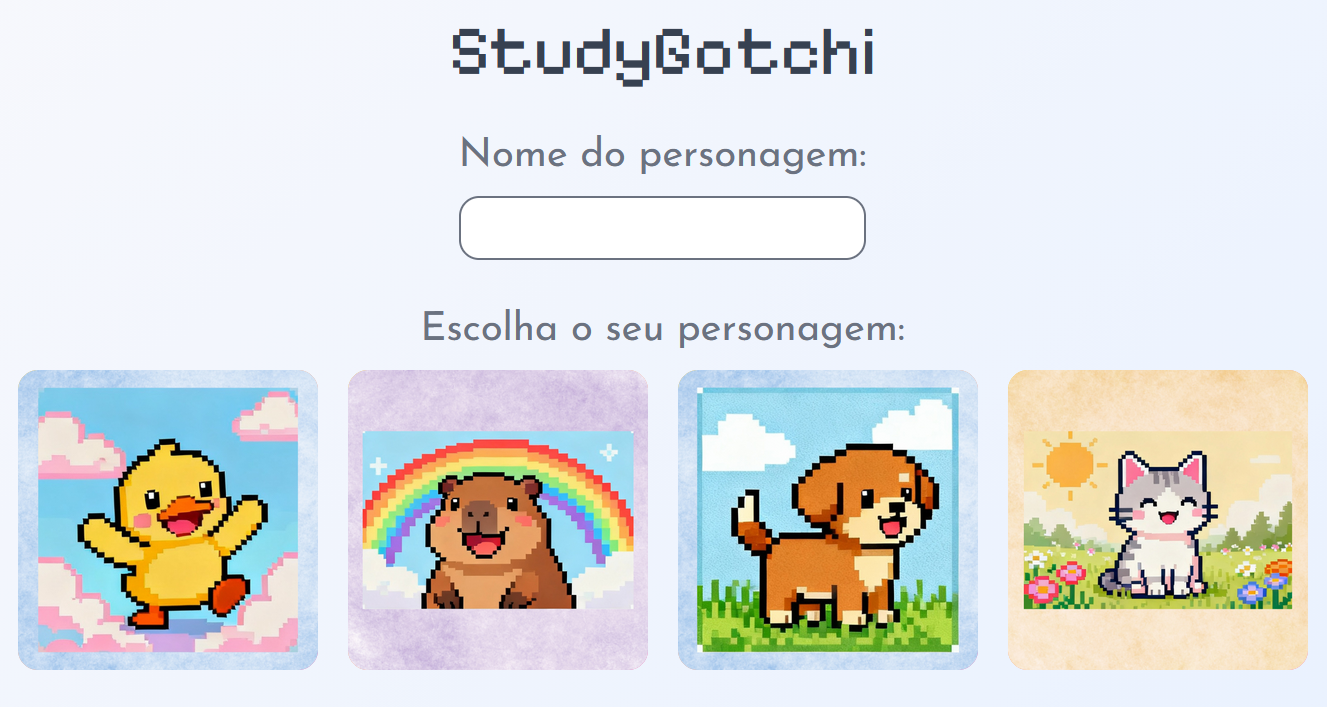
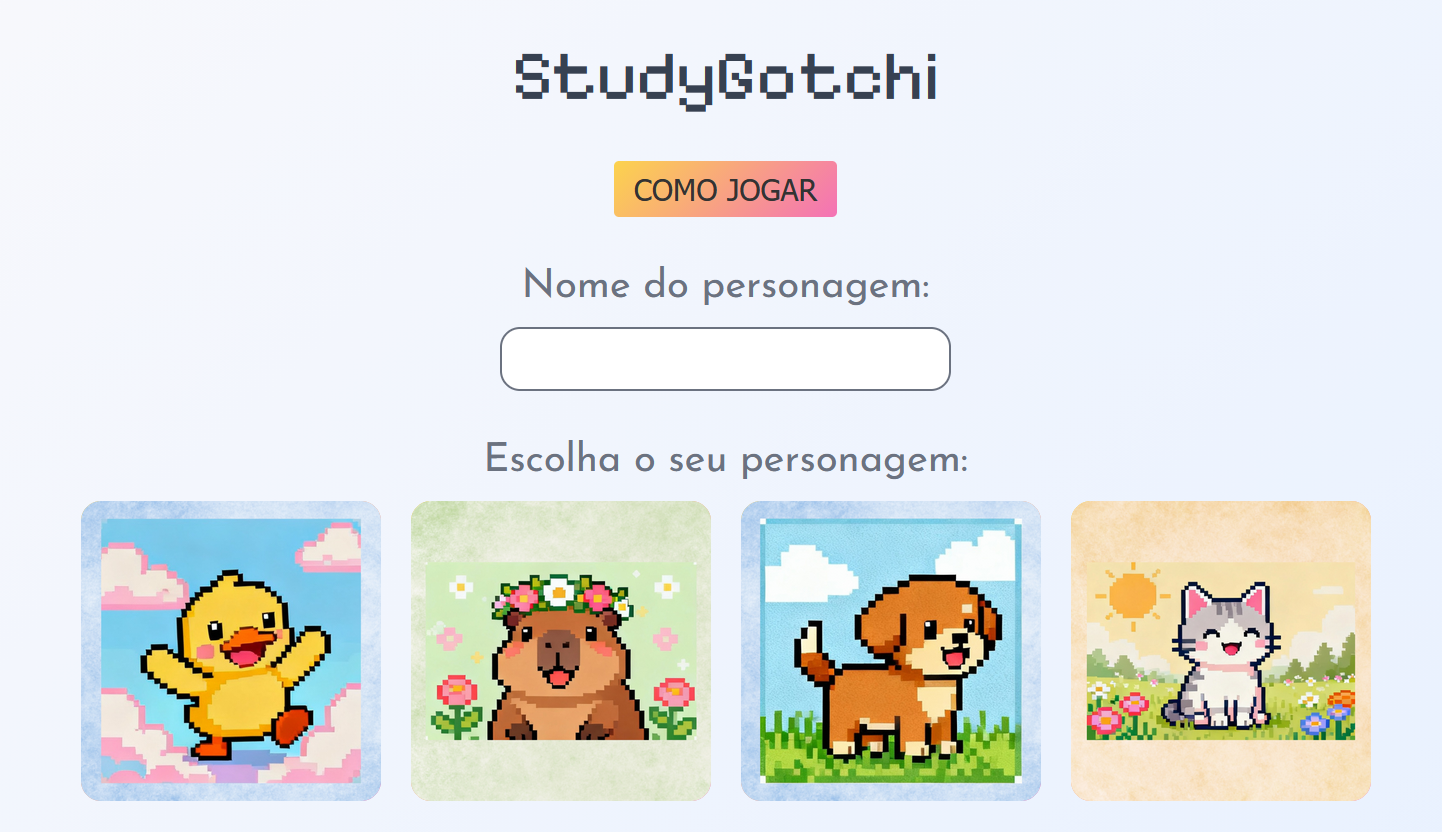
Permitindo a escolha de nome e personagem

diff --git a/src/pages/Home/Home.tsx b/src/pages/Home/Home.tsx
@@ -2,8 +2,14 @@ import "./Home.css";
 import Button from "../../components/Button";
 import { useState } from "react";
 import { useNavigate } from "react-router";
+import { useStudygotchi } from "../../Context/StudygotchiContext";
+import Modal from "../../components/Modal";
 
 export default function Home() {
+    const { characterName, setCharacterName, characterSelect, setCharacterSelect } = useStudygotchi();
+    const [isModalOpen, setIsModalOpen] = useState(false);
+    const [error, setError] = useState("");
+
     const navigate = useNavigate();
     const characters = ["duck", "capybara", "dog", "cat"];
     const [hoverIndex, setHoverIndex] = useState<number | null>(null);
@@ -15,25 +21,55 @@ export default function Home() {
     return (
         <section className="home">
             <h1>StudyGotchi</h1>
-            <label className="character-name" htmlFor="name">
-                <p>Nome do personagem:</p>
-                <input type="text" name="Nome do personagem" id="name" />
-            </label>
-            <div className="character-select">
-                <p>Escolha o seu personagem:</p>
-                <div className="characters">
-                    {characters.map((character: string, index: number) => (
-                        <Button
-                            key={character}
-                            control={() => { navigate("/studygotchi") }}
-                            hover={() => { setHoverIndex(index) }}
-                            hoverOff={() => { setHoverIndex(null) }}
-                        >
-                            <img src={image(character, hoverIndex === index)} alt={character} />
-                        </Button>
-                    ))}
+            <Button
+                control={() => {
+                    setIsModalOpen(true);
+                }}
+            >Como jogar
+            </Button>
+            <form onSubmit={event => event.preventDefault()}>
+                <label className="character-name" htmlFor="name">
+                    <p>Nome do personagem:</p>
+                    <input
+                        required
+                        type="text"
+                        name="Nome do personagem"
+                        id="name"
+                        onChange={event => setCharacterName(event.target.value)}
+                    />
+                </label>
+                <div className="character-select">
+                    <p>Escolha o seu personagem:</p>
+                    <div className="characters">
+                        {characters.map((character: string, index: number) => (
+                            <Button
+                                key={character}
+                                control={() => {
+                                    if (!characterName.trim()) {
+                                        setError("Por favor, preencha o nome do personagem!")
+                                        return
+                                    } else {
+                                        setError("");
+                                        setCharacterSelect(character);
+                                        navigate("/studygotchi");
+                                    }
+                                }}
+                                hover={() => { setHoverIndex(index) }}
+                                hoverOff={() => { setHoverIndex(null) }}
+                            >
+                                <img src={image(character, hoverIndex === index)} alt={character} />
+                            </Button>
+                        ))}
+                    </div>
                 </div>
-            </div>
+            </form>
+            <Modal isOpen={isModalOpen} onClose={() => setIsModalOpen(false)}>
+                <h2>Bem-vindo ao StudyGotchi, seu companheiro de estudos!</h2> 
+                <p>Antes de começar a estudar, o StudyGotchi te convida para um momento especial de lazer de 15 minutos. Esse tempo serve para deixar você e seu personagem relaxados e prontos para aprender, trazendo leveza para a sua rotina.</p> 
+                <p>Com a energia renovada, você poderá iniciar uma sessão de estudo de 1 hora. O tempo será monitorado e seu progresso ficará registrado, tornando cada avanço motivo de orgulho tanto para você quanto para o seu StudyGotchi.</p> 
+                <p>Lembre-se: você pode pausar quando quiser. Sempre que voltar dos momentos de lazer, seu personagem estará feliz em acompanhar você em mais uma jornada de aprendizado!</p> 
+                <p>Estude com dedicação, curta suas pausas e cuide do seu StudyGotchi. Ele está sempre aqui torcendo pelo seu sucesso!</p>
+             </Modal>
         </section>
     )
 }

diff --git a/src/pages/Game/Game.tsx b/src/pages/Game/Game.tsx
@@ -9,10 +9,13 @@ import type IPetLevel from '../../interfaces/IPetLevel.tsx';
 import UpdatePetLevel from '../../components/UpdatePetLevel/index.tsx';
 import UpdatePetCareerLevel from '../../components/UpdatePetCareerLevel/index.tsx';
 import Modal from '../../components/Modal/index.tsx';
+import { useStudygotchi } from '../../Context/StudygotchiContext.tsx';
 
 export default function Game() {
+    const { characterName, characterSelect } = useStudygotchi();
+
     const initialPet = {
-        name: "Marvel",
+        name: characterName,
         study: 0,
         rest: 0,
         happiness: 100
@@ -28,7 +31,7 @@ export default function Game() {
     const [isStudying, setIsStudying] = useState(false);
     const [isOnPause, setIsOnPause] = useState(false);
     const [isHavingFun, setIsHavingFun] = useState(true);
-    const [duckImage, setDuckImage] = useState("/duck-images/duck-very-happy.png");
+    const [image, setImage] = useState(`/${characterSelect}-images/${characterSelect}-very-happy.png`);
     const [isModalOpen, setIsModalOpen] = useState(false);
 
     useEffect(() => {
@@ -62,7 +65,7 @@ export default function Game() {
                 if (progress >= 1) {
                     clearInterval(interval);
                     setIsStudying(false);
-                    setDuckImage("/duck-images/duck-happy.png")
+                    setImage(`/${characterSelect}-images/${characterSelect}-happy.png`)
                 }
 
             }, 1000)
@@ -89,7 +92,7 @@ export default function Game() {
                 if (progress >= 1) {
                     clearInterval(interval);
                     setIsHavingFun(true);
-                    setDuckImage("/duck-images/duck-very-happy.png")
+                    setImage(`/${characterSelect}-images/${characterSelect}-very-happy.png`)
                 }
             }, 1000)
             return () => clearInterval(interval);
@@ -116,7 +119,7 @@ export default function Game() {
         <section className='game'>
             <h1>StudyGotchi</h1>
             <section className='pet-infos'>
-                <img className='duck' src={duckImage} alt="Patinho" />
+                <img className='pet-image' src={image} alt={characterSelect} />
                 <h2>{petStatus.name}</h2>
                 <h3>{petLevel.careerLevel} - {petLevel.level}</h3>
             </section>
@@ -140,7 +143,7 @@ export default function Game() {
                     if (petStatus.happiness >= 100) {
                         setPetStatus(prevPetStatus => ({ ...prevPetStatus, study: 0 }))
                         setIsStudying(true)
-                        setDuckImage("/duck-images/duck-studying.png")
+                        setImage(`/${characterSelect}-images/${characterSelect}-studying.png`)
                     }
                 }}>
                     Estudar
@@ -148,9 +151,9 @@ export default function Game() {
                 <Button control={() => {
                     setIsOnPause(prev => !prev)
                     if (isOnPause === false) {
-                        setDuckImage("/duck-images/duck-rest.png")
+                        setImage(`/${characterSelect}-images/${characterSelect}-rest.png`)
                     } else {
-                        setDuckImage("/duck-images/duck-studying.png")
+                        setImage(`/${characterSelect}-images/${characterSelect}-studying.png`)
                     }
                 }}>
                     Descansar
@@ -158,7 +161,7 @@ export default function Game() {
                 <Button control={() => {
                     if (petStatus.happiness < 100 && isStudying === false) {
                         setIsHavingFun(false);
-                        setDuckImage("/duck-images/duck-fun.png")
+                        setImage(`/${characterSelect}-images/${characterSelect}-fun.png`)
                     }
                 }}>
                     Diversão

diff --git a/src/pages/Home/Home.css b/src/pages/Home/Home.css
@@ -11,19 +11,29 @@
     font-family: "Josefin Sans", sans-serif;
 }
 
+.home form {
+    display: flex;
+    flex-direction: column;
+    justify-content: center;
+    align-items: center;
+    gap: 40px;
+}
+
 .character-name {
     display: flex;
     flex-direction: column;
+    align-items: center;
+    justify-content: center;
     gap: 16px;
 }
 
 .character-name input {
     border: solid 2px #6b7280;
     border-radius: 16px;
+    width: 100%;
     height: 40px;
     color: #374151;
     padding: 4px 16px;
-    text-transform: uppercase;
     text-align: center;
 }
 

diff --git a/src/Context/StudygotchiContext.tsx b/src/Context/StudygotchiContext.tsx
@@ -1,4 +1,4 @@
-import { createContext, useState, type ReactNode } from "react";
+import { createContext, useContext, useState, type ReactNode } from "react";
 
 interface StudygotchiContextType {
     characterName: string,
@@ -18,4 +18,8 @@ export default function StudygotchiProvider({ children }: { children: ReactNode 
             {children}
         </StudygotchiContext.Provider>
     )
+}
+
+export function useStudygotchi() {
+    return useContext(StudygotchiContext);
 }

diff --git a/src/pages/Game/Game.css b/src/pages/Game/Game.css
@@ -11,7 +11,7 @@
     font-family: "Josefin Sans", sans-serif;
 }
 
-.duck {
+.pet-image {
     width: 200px;
     height: 200px;
     border-radius: 8px;
@@ -64,7 +64,7 @@
         gap: 24px 80px;
     }
 
-    .duck {
+    .pet-image {
         width: 240px;
         height: 240px;
     }

diff --git a/src/components/Modal/Modal.css b/src/components/Modal/Modal.css
@@ -13,8 +13,8 @@
 }
 
 .modal-content {
-    width: 40%;
-    height: 50%;
+    width: 60%;
+    height: 80%;
     display: flex;
     flex-direction: column;
     justify-content: center;
